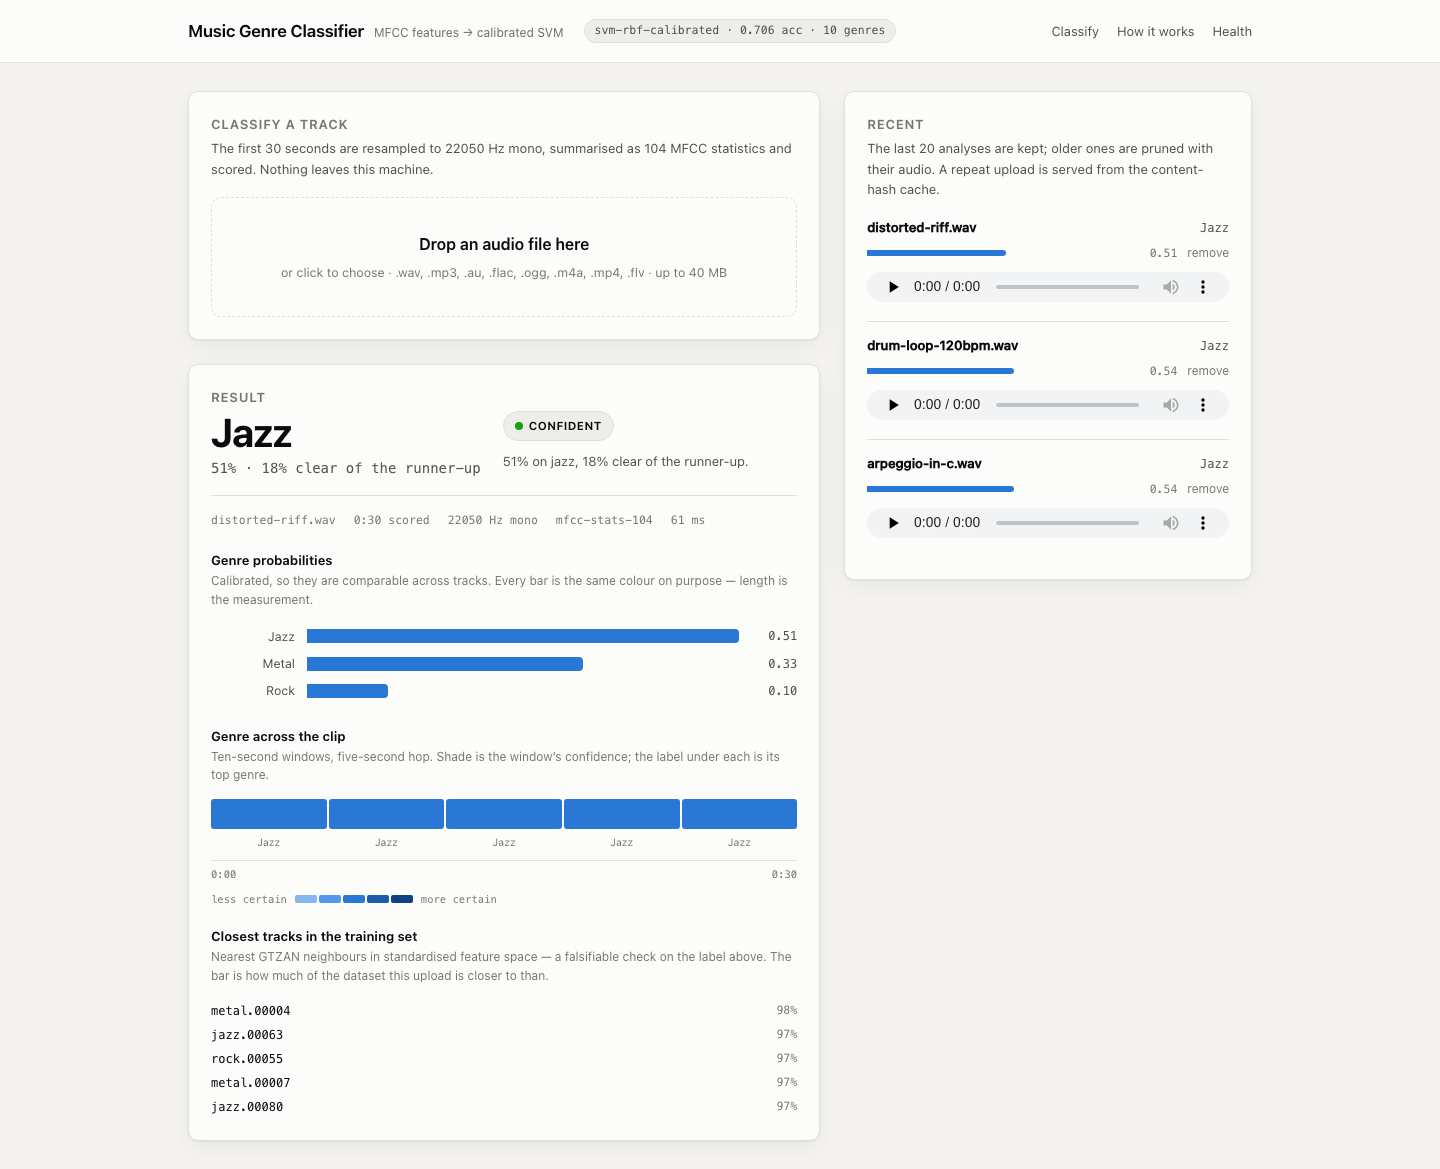
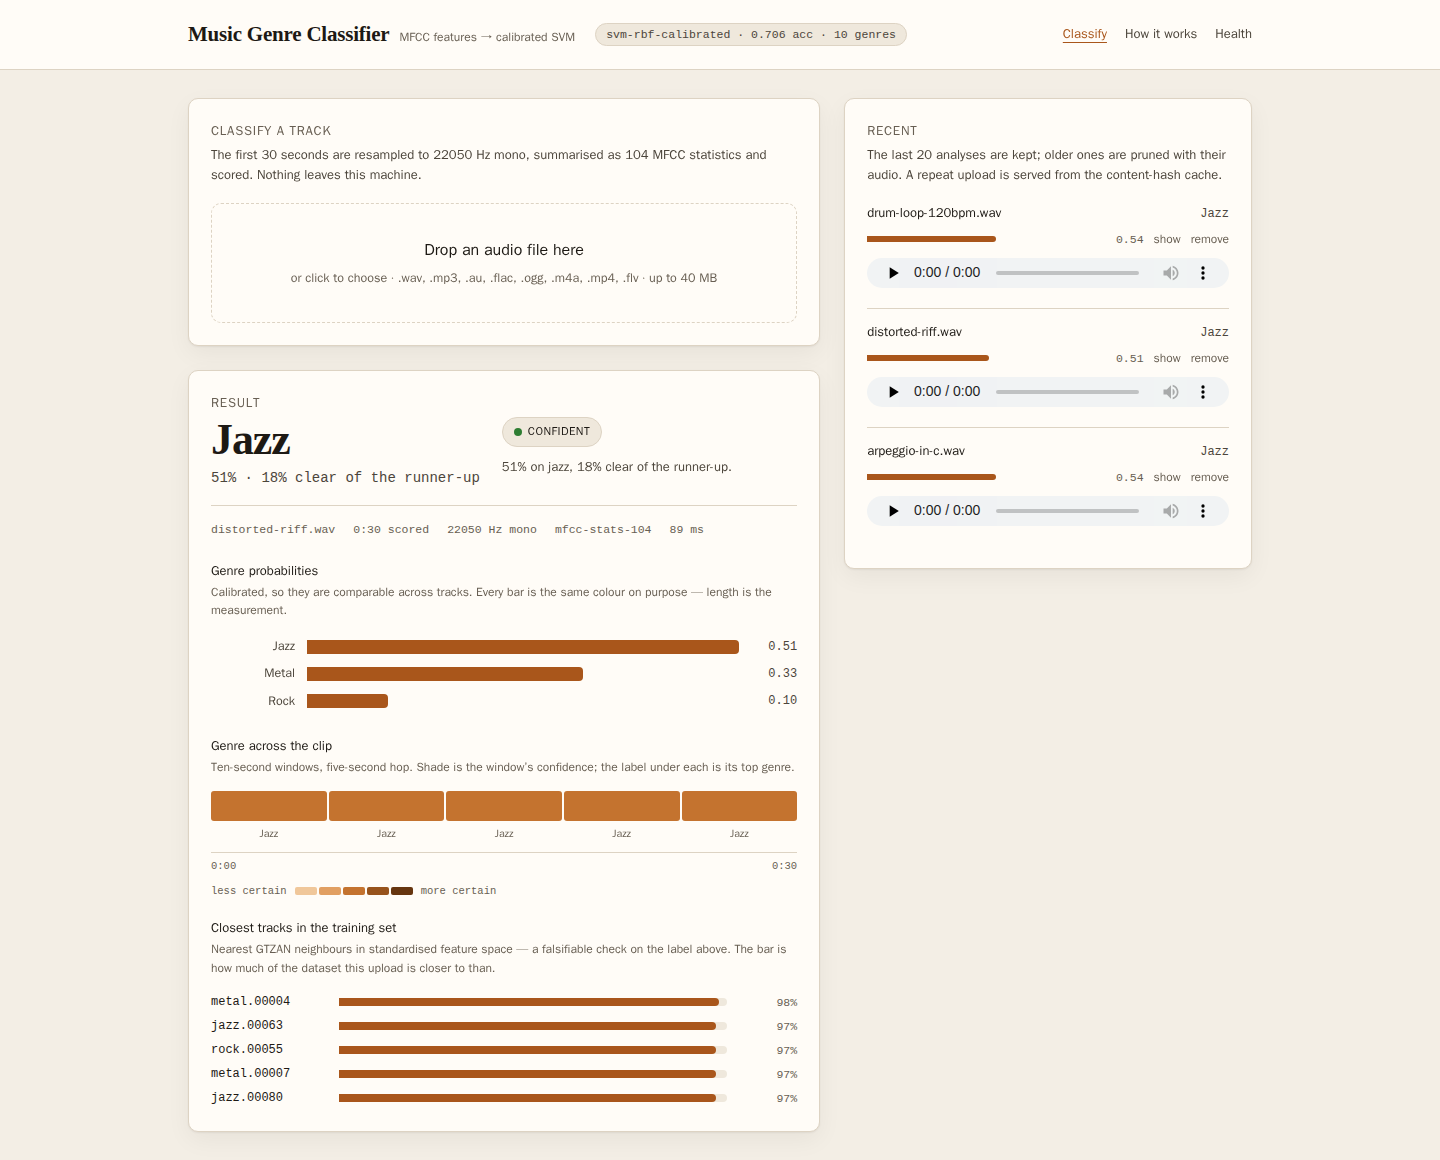
Document the JSON API and refresh the screenshots
The README gains an API section with requests and responses captured
from a sandbox run, including the CSRF cookie step a script needs and
the error shapes. The stale "container status" log is replaced by what
was actually re-run, setup now names Python 3.12 and .env.example, and
a known limit notes that the demo has no accounts.

Screenshots are retaken against the restyled UI with the seeded demo
clips only, plus a phone view and the refused-upload state.

diff --git a/README.md b/README.md
@@ -17,10 +17,11 @@ docker compose down -v           # stop, and drop the uploads volume
 
 One command, no manual steps. The image trains the model at build time from
 `data/Xall.npy`, and the entrypoint migrates and seeds three analysed clips, so the
-first page is populated rather than an empty form.
+first page is populated rather than an empty form. Every setting has a default;
+copy `.env.example` to `.env` to override any of them.
 
-Locally, on Python 3.11 or 3.12 (newer has no wheels for the pinned numpy and
-scikit-learn):
+Locally, on Python 3.12 (pinned in `.python-version`; 3.13 removed the `audioop`
+module that pydub 0.25.1 still imports):
 
 ```bash
 python3.12 -m venv project_venv
@@ -35,34 +36,41 @@ Uploads accept `.wav`, `.mp3`, `.au`, `.flac`, `.ogg`, `.m4a`, `.mp4` and `.flv`
 to 40 MB. Only `.wav` is read directly; everything else goes through pydub, which
 shells out to **ffmpeg** — the image installs it, a local checkout needs it on `PATH`.
 
-**Container status**, from this repo's build log: *config parse verified* (`docker
-compose config`); *build verified* (`docker compose build` / `up -d --build` against
-the final application code — the last successful build came after the warm-up change
-in `web/apps.py`); *boot verified* — the container reached `healthy` in ~15 s,
-`GET /healthz/` returned `{"status":"ok","model_loaded":true,…}`, `/api/model/`
-reported `svm-rbf-calibrated` at 0.706, `/api/history/` returned the three seeded
-analyses, `GET /` returned 200. It was torn down with `docker compose down -v` and has
-**not** been re-run since; the only things that changed afterwards were `tests/` and
-this README, both excluded by `.dockerignore`.
+The local steps above were last run end to end on 2026-11-08 in a clean
+`python:3.12-slim` container, followed by the image's own serving path
+(`docker-entrypoint.sh`, then gunicorn with `DEBUG=0` over collected static files):
+training reported 0.706 ± 0.020, the three demo clips seeded, and every endpoint in
+[the API section](#the-json-api) answered as shown there.
 
 ## What it gives you back
 
 ![A classified track](docs/screenshots/classified.png)
 
-The label is *jazz* at 0.51 — but the nearest training tracks are `metal.00004`,
-`jazz.00063`, `rock.00055`. The neighbour panel is a falsifiable check on the headline,
-not decoration: if the neighbours disagree with the label, the label is what is wrong.
+The seeded `distorted-riff.wav`, reopened from the history with **show**. The label
+is *jazz* at 0.51 — but the nearest training tracks are `metal.00004`, `jazz.00063`,
+`rock.00055`. The neighbour panel is a falsifiable check on the headline, not
+decoration: if the neighbours disagree with the label, the label is what is wrong.
 
 ![An off-distribution verdict](docs/screenshots/off-distribution.png)
 
-The same page for a synthetic click grid. An SVM does not abstain, so the verdict is
-driven by how far the clip sits from the training set — 52.5 away, with under 0.2% of
-GTZAN's own track pairs that far apart — rather than letting 54% read as confidence.
+The same page for the seeded drum loop. An SVM does not abstain, so the verdict is
+driven by how far the clip sits from the training set — 65.1 away, further than any
+pair of GTZAN's own tracks, which is why every neighbour bar reads 0% — rather than
+letting 54% read as confidence.
 
 ![How it works](docs/screenshots/how-it-works.png)
 
 The in-app **How it works** page states the pipeline, the confidence bands and the
 limits, so nobody reads a number without its caveats.
+
+<p>
+  <img src="docs/screenshots/mobile-result.png" alt="The result panel on a phone" width="260">
+  <img src="docs/screenshots/error.png" alt="An unsupported file refused with the reason" width="520">
+</p>
+
+On a phone the history drops below the upload and the charts narrow their label
+columns. A refused upload says why — here a `.txt` file, rejected by extension
+before a byte of it is decoded.
 
 ## From upload to verdict
 
@@ -230,10 +238,81 @@ both indexed — there is no `.all()` anywhere, and a test would fail if one app
 SQLite is the right answer to that workload; the honest next bottleneck is CPU, so past
 a handful of concurrent uploads the answer is a task queue and more workers.
 
+## The JSON API
+
+The page is a client of these endpoints, and so can anything else. Captured from the
+sandbox run on 2026-11-08 against a synthesised 20-second, 44.1 kHz stereo clip
+(responses trimmed where marked):
+
+| Method and path | What it does |
+|---|---|
+| `POST /api/classify/` | multipart `file`; returns the full analysis, `cached: true` on a repeat |
+| `GET /api/analyses/<id>/` | one stored analysis, 404 if it has been pruned |
+| `DELETE /api/analyses/<id>/` | drop an analysis and its audio |
+| `GET /api/history/?limit=N` | newest first, capped at `HISTORY_LIMIT` |
+| `GET /api/model/` | what the served artifact says about itself |
+| `GET /healthz/` | 200 with the model loaded, 503 without |
+
+POSTs and DELETEs go through Django's CSRF check, so a script fetches the cookie
+first:
+
+```bash
+curl -s -c jar -o /dev/null localhost:8310/
+curl -s -b jar -H "X-CSRFToken: $(awk '/csrftoken/ {print $7}' jar)" \
+     -F file=@clip.wav localhost:8310/api/classify/
+```
+
+```json
+{
+  "ranked": [
+    {"genre": "jazz", "probability": 0.5437},
+    {"genre": "blues", "probability": 0.2162},
+    {"genre": "classical", "probability": 0.1249}
+  ],
+  "verdict": {"genre": "jazz", "probability": 0.5437, "margin": 0.3275, "band": "confident",
+              "reason": "54% on jazz, 33% clear of the runner-up."},
+  "duration_seconds": 20.0,
+  "sample_rate": 22050,
+  "extractor": "mfcc-stats-104",
+  "timeline": [
+    {"start": 0.0, "end": 10.0, "genre": "jazz", "probability": 0.5458, "runner_up": "blues"},
+    {"start": 5.0, "end": 15.0, "genre": "jazz", "probability": 0.5437, "runner_up": "blues"},
+    {"start": 10.0, "end": 20.0, "genre": "jazz", "probability": 0.5434, "runner_up": "blues"}
+  ],
+  "neighbours": [
+    {"track": "hiphop.00070", "genre": "hiphop", "distance": 13.593, "closer_than": 0.44},
+    {"track": "jazz.00000", "genre": "jazz", "distance": 13.776, "closer_than": 0.42}
+  ],
+  "elapsed_ms": 190,
+  "id": 4,
+  "name": "demo.wav",
[1 lines of base64/hex data omitted]
+  "size_bytes": 3528044,
+  "audio_url": "/media/audio/demo.wav",
+  "created_at": "2026-11-08T11:54:51.261932+00:00",
+  "cached": false
+}
+```
+
+Three of the five neighbours are trimmed. Note what the neighbours say about that
+"confident" jazz: the nearest track is hip-hop, and the clip is only closer than 44%
+of GTZAN's pairs — in range, but not near anything in particular.
+
+Errors are JSON with a reason, and the status code says whose fault it was:
+
+```
+POST /api/classify/  (notes.txt)        400  {"error": ".txt is not a supported audio format. Supported: .wav, .mp3, .au, .flac, .ogg, .m4a, .mp4, .flv."}
+POST /api/classify/  (no CSRF token)    403
+GET  /api/analyses/999/                 404  {"error": "no such analysis"}
+DELETE /api/analyses/999/               200  {"deleted": false}
+GET  /healthz/                          200  {"status": "ok", "model_loaded": true, "model": {...}}
+```
+
 ## Environment
 
 Every setting is read from the environment with a development default, so one image
-runs locally and behind a real host without a second settings file.
+runs locally and behind a real host without a second settings file. `.env.example`
+lists the ones Compose passes through, at their Compose defaults.
 
 | Variable | Default | What it does |
 |---|---|---|
@@ -251,7 +330,7 @@ too, in `config/settings.py`; `PORT` and `WEB_CONCURRENCY` belong to the `Procfi
 ## Tests
 
 ```bash
-./project_venv/bin/python -m pytest      # 198 passed in ~10 s
+./project_venv/bin/python -m pytest      # 204 passed in ~15 s
 ./project_venv/bin/ruff check .
 ```
 
@@ -284,6 +363,8 @@ run: feature matrices and models are synthesised from a fixed seed in
   a small CNN over mel-spectrograms would very likely do better, and is the honest next
   step rather than tuning these five classifiers further. The `FeatureExtractor` seam
   exists so that is a new class, not a rewrite.
+- **There are no accounts.** Anyone who can reach the page can upload, reopen and
+  remove history entries; the bounded history and the CSRF check are the only guards.
 - **One process, one machine.** No queue, no object storage, no horizontal scale, and
   `DEBUG` defaults to on locally. Set `DEBUG=0`, `SECRET_KEY`, `ALLOWED_HOSTS` and
   `SECURE_COOKIES=1` before exposing this to anything.
